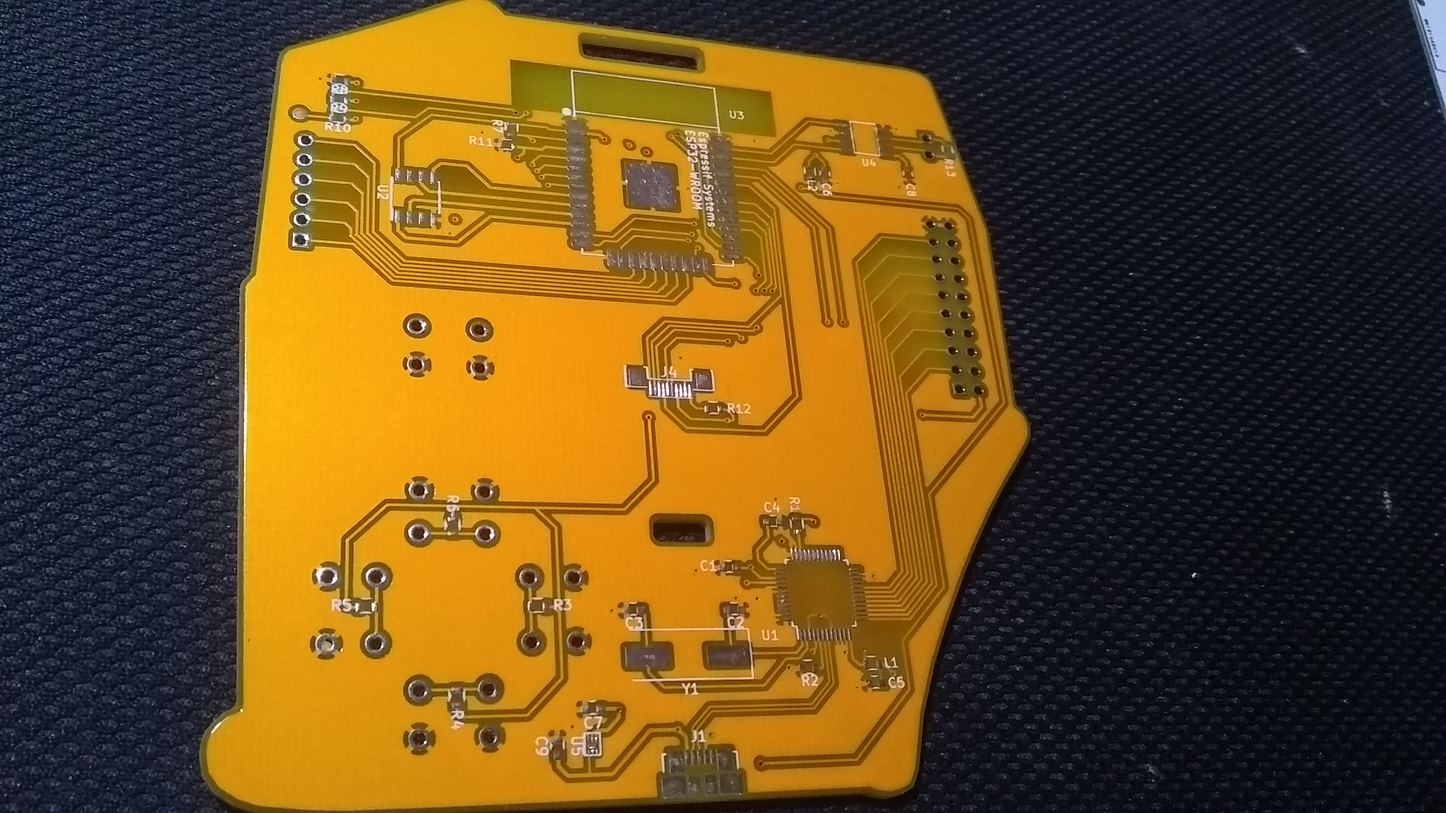
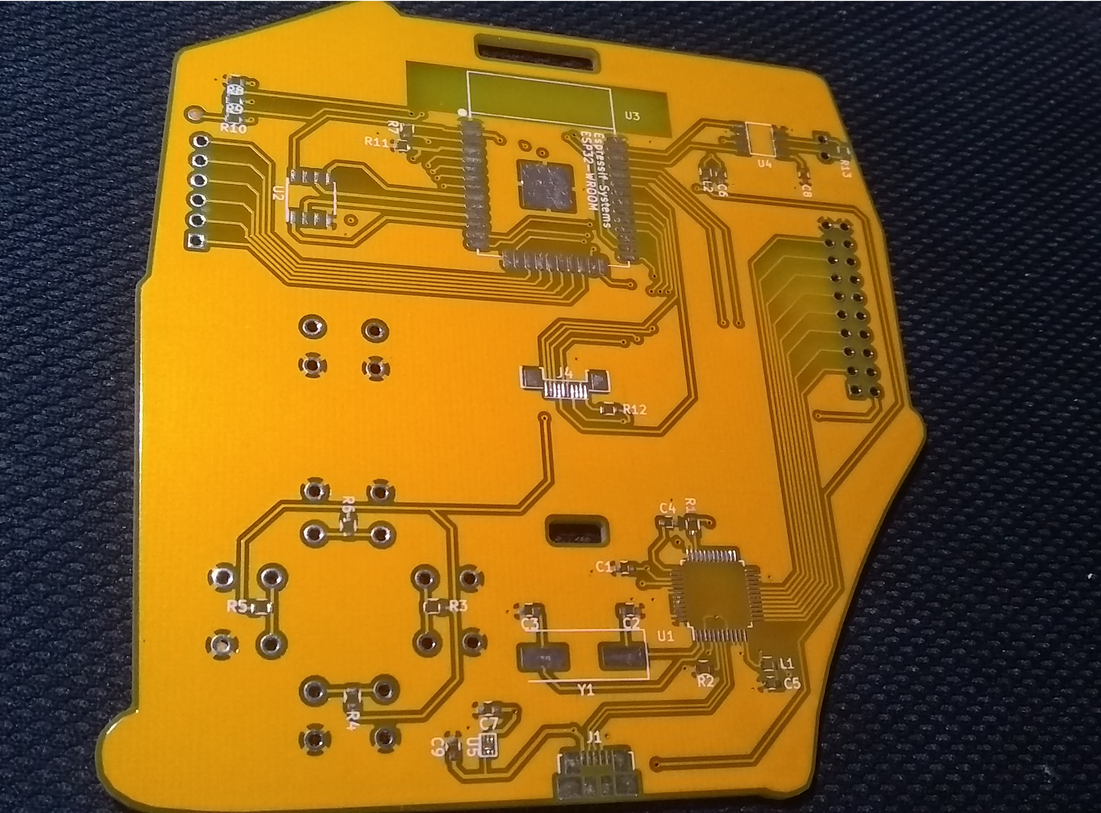
PCBWay Review

diff --git a/projects/pcbway_review.html b/projects/pcbway_review.html
@@ -37,12 +37,46 @@
         <h1>PCBWay Review (Custom PCB's delivered in under 7 days)</h1>
         <h5 style="margin-bottom:-20px">March 29 2018</h5>
 
-        <p>A few days ago I posted the announcement for my Kickstarter project <a href="http://hwreblog.com/projects/piso.html">pISO</a>. The project was fully funded a few hours after the post! When the project was first started about 6 months ago on of the major questions my partner and I had was what was the minimum quanity of units we could produce while making them affordable. I set out to get quotes from many PCB fabrication houses that also do assembly. For many years I have used <a href="https://oshpark.com/">OSHPARK</a> for my hobby PCB's. Oshpark is a well known hobbiest PCB source that many people like myself use. However for doing larger scale production their prices are too high for end user affordability. 
+        <p>TLDR: Over the past few months I have been evaluating PCBWay's PCB fabrication quality and service. I have placed 5 total orders of 7 different PCB designs. The boards I have received have been of excellent quality in terms of functionality. While there are definantly things that I think could be improved, see below for more details, their prices and service are almost unbeatable compared to other PCB fabs I have used. I think they are a great resource for hobbyist or small business startups.
         </p>
 
-        <p>During my browsing I came across <a href="https://www.pcbway.com/">PCBWay</a>. I must say before going forward, PCBWay does give discounts for reviews. While discounts on future orders would be great, I will not over inflate as this is my honest review of PCBWay's quality and service. With that being said, PCBWay was by far the cheapest PCB manufacturer and assembly service out of the dozen quotes I reqested for 250 pISO units. The thing that was immediately noticable was their offer of 10 - 2 layer PCB boards 100mmx100mm for only $5.00. Yes! They are advertising 2 layer 100mmx100mm PCB's for $5.00 and you get 10 boards in your order. What's even crazier was the fact they quoted me 7 days for delivery of my PCB's. That's 7 days production and delivery via DHL. Obviously, I was curious about the quality of these PCB's and I think anyone in their right mind would. I talked it over with my partner and we decided to place an order for the 10 PCB $5.00 deal for some prototypes. Since that time I have made a total of 5 orders of various PCB colors and sizes pictured below.</p>
+        <p>On to the review...
+        </p>
+
+        <p>A few days ago I posted the announcement for my Kickstarter project <a href="http://hwreblog.com/projects/piso.html">pISO</a>. The project was fully funded a few hours after the post! When the project was first started about 6 months ago, one of the major questions my partner and I had was what was the minimum quantity of units we could produce while making them affordable. I sent out  request for quotes to many PCB fabrication houses that also do assembly. For many years I have used <a href="https://oshpark.com/">OSHPARK</a> for my hobby PCB's. Oshpark is a well known hobbyist PCB source that many people like myself use. However for doing larger scale production their prices are too high for end user affordability. 
+        </p>
+
+        <p>During my searching I came across <a href="https://www.pcbway.com/">PCBWay</a>. I must say before going forward, PCBWay does give discounts for reviews. While discounts on future orders would be great, I will not over inflate my opinion in hopes of better "rewards", as this is my honest review of PCBWay's quality and service. With that being said, PCBWay was by far the cheapest PCB manufacturer and assembly service out of the dozen quotes I requested for 250 pISO units. They were also the quickest to get back to me as it only took 24 hours. The thing that was immediately noticeable was their offer of 10 - 2 layer PCB boards 100mmx100mm for only $5.00. Yes! They are advertising 2 layer 100mmx100mm PCB's for $5.00 and you get 10 boards in your order. What's even crazier was the fact they quoted me 7 days for delivery of my PCB's. That's 7 days production and delivery via DHL. Obviously, I was curious about the quality of these PCB's and I think anyone in their right mind would. I talked it over with my partner and we decided to place an order for the 10 PCB $5.00 deal for some prototypes. Since that time I have made a total of 5 orders of various PCB colors and sizes pictured below.</p>
         <p>
-          <a href="https://raw.githubusercontent.com/james-tate/IEBusAnalyzer/master/pcbway_pcbs.png"><img src="https://raw.githubusercontent.com/james-tate/IEBusAnalyzer/master/pcbway_pcbs.png" style="width:75%; height:75%"></a>
+          <center><a href="../style/pcbway_pcbs.jpg"><img src="../style/pcbway_pcbs.jpg" style="width:75%; height:75%"></a></center>
+        </p>
+
+        <p><a href="../style/status.jpg"><img src="../style/status.jpg" alt="NAND Flash Dump" style="width:30%; height:30%; float:right; margin-left: 20px"></a>I made my first order on a Sunday and received my first 11 PCB's Friday. Yes I got an extra one. I have also received an extra on other orders. The PCB's came protected in shrink bubble wrap in a white box. The total amount for the order was $27. $5.00 for the PCB's and $22.00 for the shipping. My shipping selection was DHL 3 day delivery. I noticed they do offer cheaper shipping rates, but of course they have a longer delivery time. Now considering Oshpark charges $5 per square inch for a 2 layer board with free shipping, a 100mmx100mm board would cost $75 from Oshpark compared to $27 from PCBWay. Plus I have never gotten an order from Oshpark in under 2 weeks.
+        </p>
+
+        <p>Before I get to the quality I must note that you have the choice of Green, Red, Yellow, Blue, White, and Black Solder mask (the color of the PCB) for the same price. Purple, Matte Black, and Matte Green can be chosen for an additional cost. They also have the option for no solder mask color which would be interesting. For silkscreen colors (the graphics and writing on the PCB) they offer white or black. First up we have the Black PCB. Sorry for my potato quality camera, but I think most of the major details come though with these photos. One thing that is immediately obvious is the FPC connector does have some bleeding from the solder mask and solder pads. While I have found no defects in the 70+ boards that would affect functionality, it does not look as clean as some of the other boards I have had made from other FABs. Nonetheless, I have populated that header on another board and it works as expected. I have used a soldering iron and heat station for component population and had no issues with the solder pads receiving the components. 
+        </p>
+        <p><center><a href="../style/pcbway_pcb_1.jpg"><img src="../style/pcbway_pcb_1.jpg" style="width:75%; height:75%"></a></center></p>
+        <p>The red board is revision 2 of the black board. Some components are different and you can still see the bleeding around the FPC connection solder pads. RN1 and RN2 are small resistor network chips. RN1 is meant to be in parallel and the pad did not come out as smooth as one would hope, but it is still functional. The same with RN2, the pad is functional but not going to win a beauty contest. Be on the lookout soon as I will have an announcement soon about this project's progress.
+        </p>
+        <p><center><a href="../style/pcbway_pcb_2.jpg"><img src="../style/pcbway_pcb_2.jpg" style="width:75%; height:75%"></a></center></p>
+        <p>Next up is the pISO prototypes. As you can see we have tested many user interface designs attempting to see what works best. Overall, the pISO is a pretty simple design and the quality of the PCB's are great. As you might have noticed there are some inconsistency in the silkscreen. 
+        </p>
+        <p><center><a href="../style/pcbway_pcb_3.jpg"><img src="../style/pcbway_pcb_3.jpg" style="width:75%; height:75%"></a></center></p>
+        <p>Here is a closer look at the inconsistency in the silkscreen. KiCad was used for PCB design, and the same footprint was used for the silkscreen image on each order. Clearly the second is the highest resolution. The right is the logo as it appears in the KiCad 3D PCB viewer tool. 
+        </p>
+        <p><center><a href="../style/pcbway_pcb_4.jpg"><img src="../style/pcbway_pcb_4.jpg" style="width:100%; height:75%"></a></center></p>
+        <p>Last might be my favorite PCB. Not only for the sweet design, but also I am a fan of the yellow color. This is another project I have in the works that I will make an announcement on later this year. FPC connector J4 we see the same issue with the mask/pad bleeding. Again, I have populated this header and it does work as expected.
+        </p>
+        <p><center><a href="../style/pcbway_pcb_5.jpg"><img src="../style/pcbway_pcb_5.jpg" style="width:75%; height:75%"></a></center></p>
+        <p>PCB also offers FREE through-hole prototyping PCB's in a variety of sizes. I usually though in 5 in my latest orders.
+        </p>
+        <p><center><a href="../style/pcbway_freepcbs.jpg"><img src="../style/pcbway_freepcbs.jpg" style="width:75%; height:75%"></a></center></p>
+        <p>For each order at PCBWay you build points they calls beans. You can trade these beans for cool stuff like Raspberry Pis and Arduinos. I traded a number of my beans to pick up a couple of these sweet rulers that have various IC pad footprints. 
+        </p>
+        <p><center><a href="../style/pcbway_ruler_1.jpg"><img src="../style/pcbway_ruler_1.jpg" style="width:75%; height:75%"></a></center></p>
+        <p><center><a href="../style/pcbway_ruler_2.jpg"><img src="../style/pcbway_ruler_2.jpg" style="width:75%; height:75%"></a></center></p>
+        <p>In conclusion, I am truly amazed that PCBWay gives me the ability to start a weekend design project on Friday night, hammer out the details Saturday, place an order on Sunday afternoon, and have quality made PCB's by the next weekend for assembly. If you are interested in using PCBWay in your next project, get a $5 credit by following this link <a href="https://www.pcbway.com/setinvite.aspx?inviteid=51914">$5.00 PCBWay credit</a>
         </p>
         <!-- insert the page content here -->
         

diff --git a/sidebar.htm b/sidebar.htm
@@ -8,6 +8,7 @@
 <div class="sidebar">
   <h3>Projects</h3>
   <ul>
+    <li><a target="_parent" href="http://hwreblog.com/projects/pcbway_review.html">PCBWay Review</a></li>
     <li><a target="_parent" href="http://hwreblog.com/projects/piso.html">pISO</a></li>
     <li><a target="_parent" href="http://hwreblog.com/projects/sret.html">SRET</a></li>
     <li><a target="_parent" href="http://hwreblog.com/projects/arduino_nand_reader.html">Arduino NAND reader</a></li>
